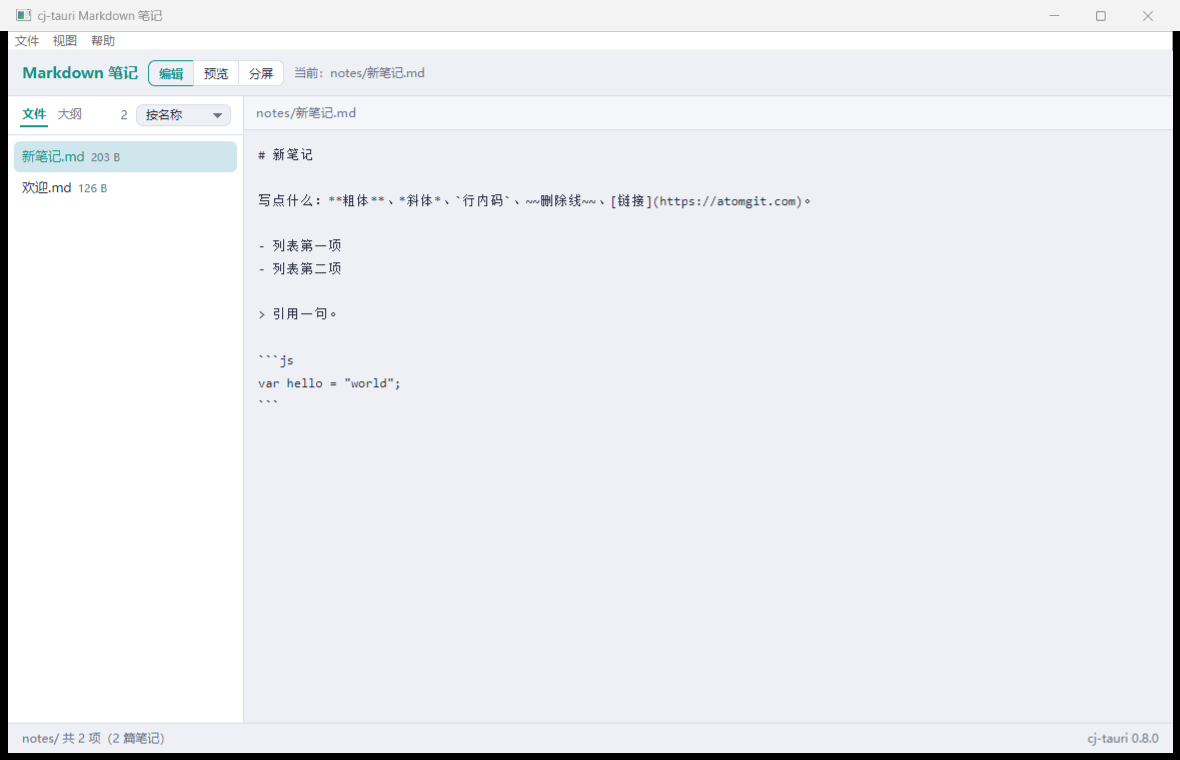
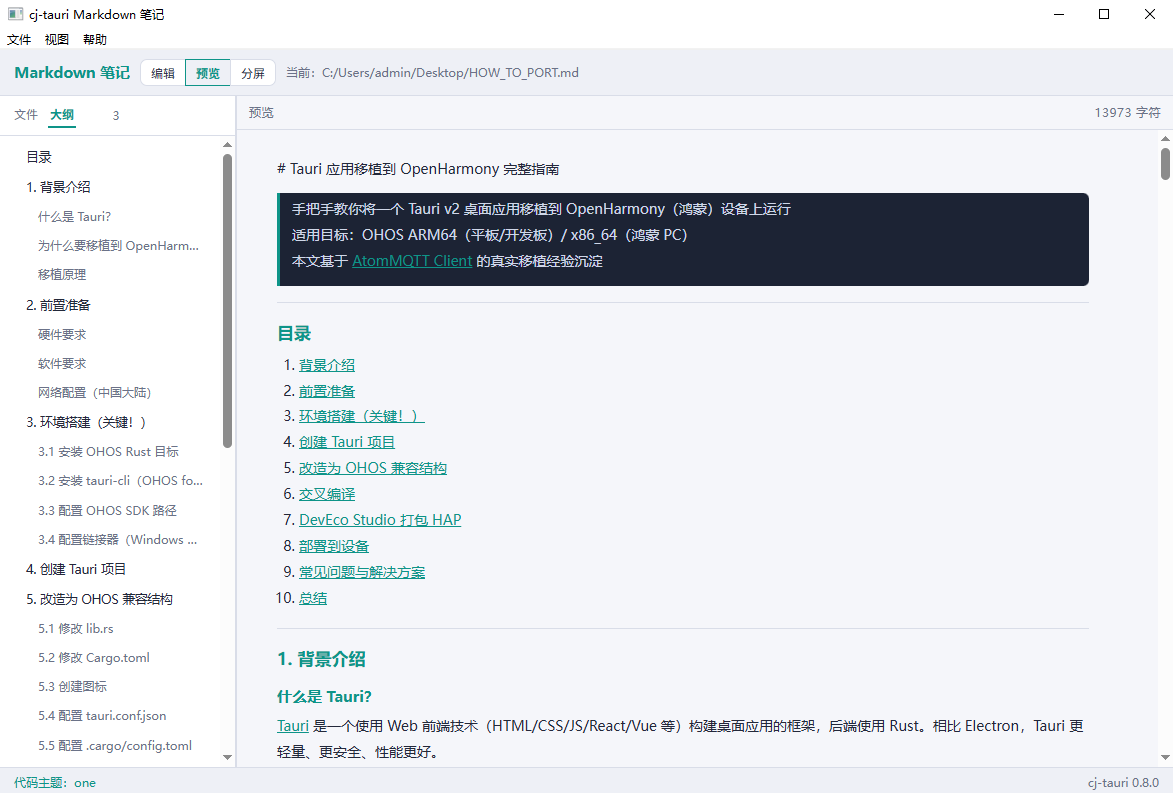
website: sync updated markdown-notes screenshot from docs/images
- 官网截图是独立拷贝，docs/images 里的更新需手动同步（本次同步 1173x793 新图）
- index.html 两处 img 的 width/height 随新图实测尺寸更新（1180x760 → 1173x793）
- site-check 快速档全过（PASS 21 / FAIL 0 / WARN 0）

Changed region(s): [[0.0, 0.0, 1.0, 1.0], [0.9207, 0.0, 0.9514, 0.0303]]

diff --git a/website/index.html b/website/index.html
@@ -464,7 +464,7 @@ cj.<span class="t-f">listen</span>(<span class="t-s">"tick"</span>, e =&gt; {
               </li>
               <li class="slide">
                 <a class="slide__link" href="https://atomgit.com/qq8864/cj-tauri/tree/main/examples/markdown-notes" target="_blank" rel="noopener">
-                  <div class="slide__shot"><img src="assets/screenshots/markdown-notes.png" width="1180" height="760" loading="lazy" alt="Markdown 笔记：文件树 / 编辑 / 实时预览" data-en-alt="Markdown notes: file tree / editor / live preview"></div>
+                  <div class="slide__shot"><img src="assets/screenshots/markdown-notes.png" width="1173" height="793" loading="lazy" alt="Markdown 笔记：文件树 / 编辑 / 实时预览" data-en-alt="Markdown notes: file tree / editor / live preview"></div>
                   <div class="slide__body">
                     <h3 class="slide__title" data-en="Markdown notes — tree / edit / preview">Markdown 笔记：树 / 编辑 / 预览</h3>
                     <p class="slide__desc" data-en="marked + Highlight.js vendored and inlined at assembly, self-written renderer, path scope to a notes/ workspace; 5 UI themes, native menus, 4.8 MB single exe.">marked + Highlight.js 装配期内联、自写渲染器零注入面，路径 scope 圈定 notes/ 工作区；五套界面主题、原生菜单，单文件 4.8 MB。</p>
@@ -574,7 +574,7 @@ cj.<span class="t-f">listen</span>(<span class="t-s">"tick"</span>, e =&gt; {
               </li>
               <li class="slide">
                 <a class="slide__link" href="https://atomgit.com/qq8864/cj-tauri/tree/main/examples/markdown-notes" target="_blank" rel="noopener">
-                  <div class="slide__shot"><img src="assets/screenshots/markdown-notes.png" width="1180" height="760" loading="lazy" alt="Markdown 笔记界面" data-en-alt="Markdown notes interface"></div>
+                  <div class="slide__shot"><img src="assets/screenshots/markdown-notes.png" width="1173" height="793" loading="lazy" alt="Markdown 笔记界面" data-en-alt="Markdown notes interface"></div>
                   <div class="slide__body">
                     <h3 class="slide__title" data-en="Markdown notes">Markdown 笔记</h3>
                     <p class="slide__desc" data-en-html="File tree, editor and live preview side by side. The renderer is written by hand and never touches <code>innerHTML</code>, the workspace is pinned by path scope, and it reopens the note you were last on.">文件树、编辑、实时预览三联。渲染器自写、全程不碰 <code>innerHTML</code>，工作区由路径 scope 钉死，关掉再开还记得上次那篇。</p>
